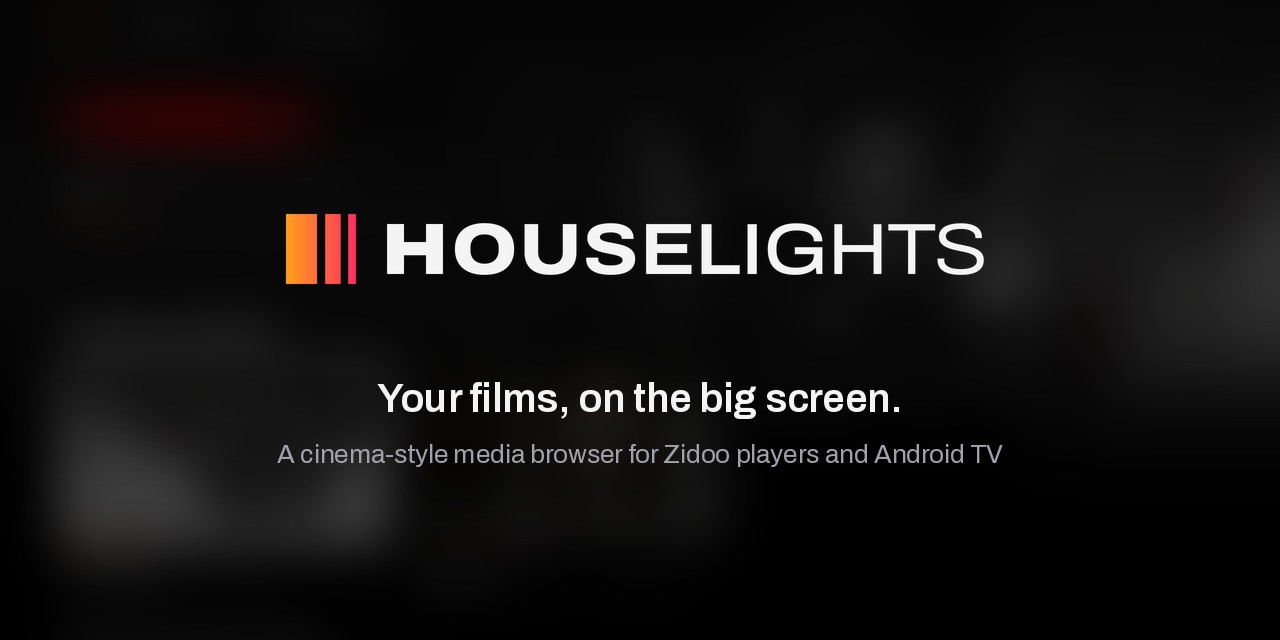
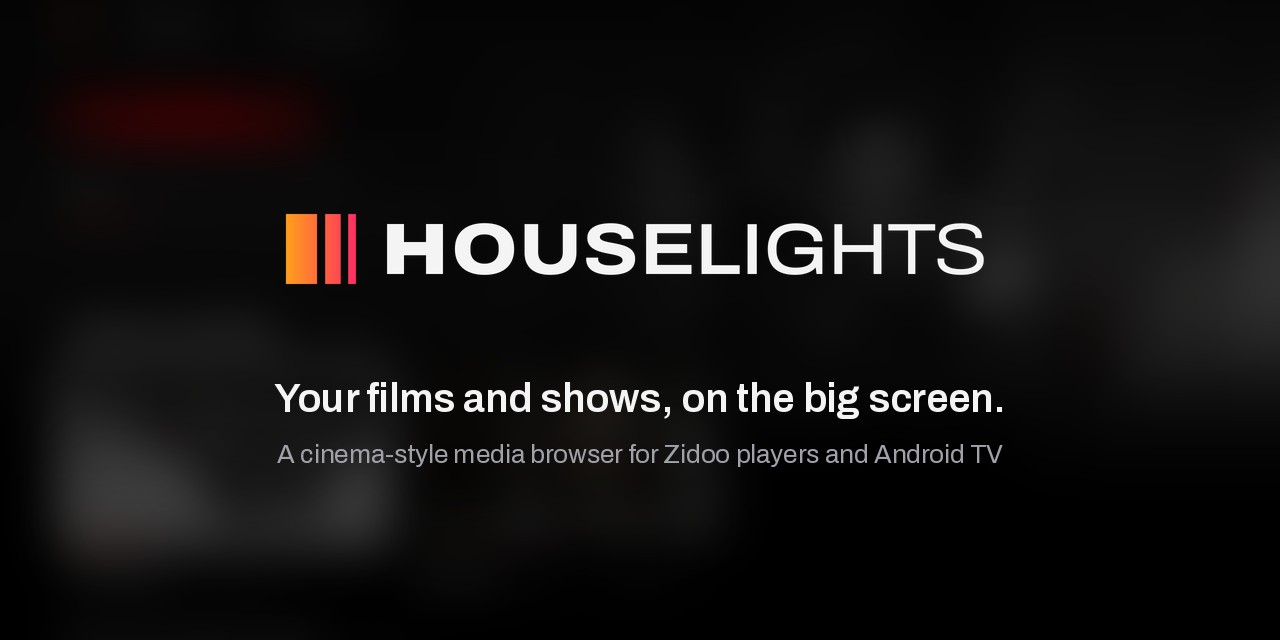
The tagline names the shows: your films and shows, on the big screen, in the twelve languages, the README and the social preview

Changed region(s): [[0.2188, 0.5938, 0.7812, 0.6562]]

diff --git a/README.md b/README.md
@@ -2,7 +2,7 @@
   <img src="docs/images/houselights.svg" alt="Houselights: a cinema-style media browser for Zidoo players and Android TV" width="100%">
 </p>
 
-<h3 align="center">Your films, on the big screen.</h3>
+<h3 align="center">Your films and shows, on the big screen.</h3>
 
 <p align="center">
   A cinema-style media browser for <b>Zidoo</b> players that hands playback to the <b>native Zidoo player</b>,<br>
